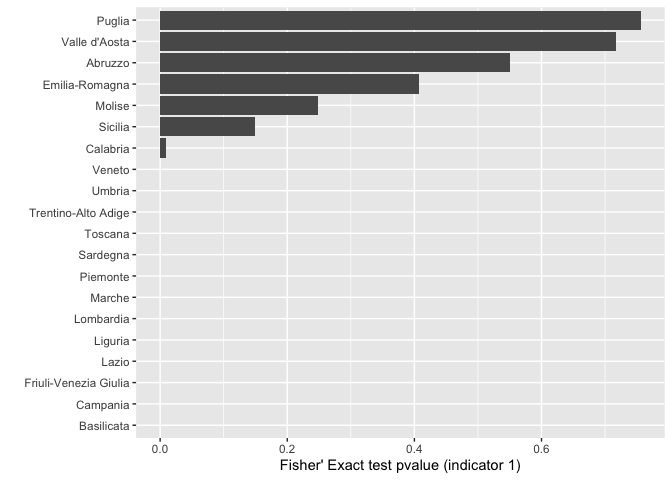
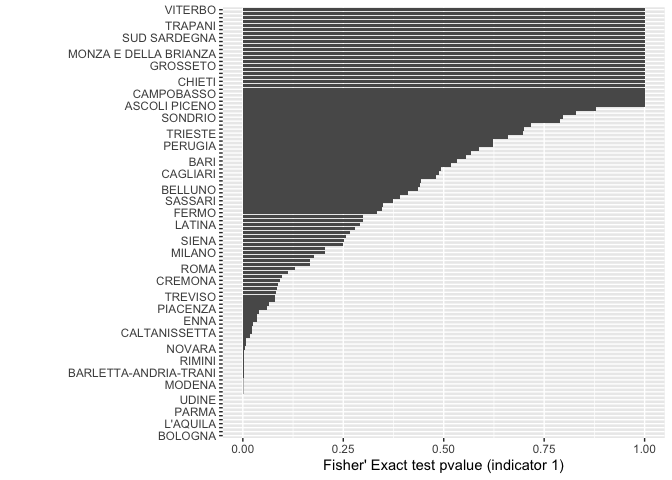
document pkg, update readme and docs

diff --git a/README.md b/README.md
@@ -9,6 +9,8 @@
 status](https://www.r-pkg.org/badges/version/core-soi)](https://CRAN.R-project.org/package=core-soi)
 [![Lifecycle:
 experimental](https://img.shields.io/badge/lifecycle-experimental-orange.svg)](https://lifecycle.r-lib.org/articles/stages.html#experimental)
+[![Codecov test
+coverage](https://codecov.io/gh/CORE-forge/core-soi/branch/main/graph/badge.svg)](https://app.codecov.io/gh/CORE-forge/core-soi?branch=main)
 <!-- badges: end -->
 
 The goal of `coresoi` is to offer a *sandbox* in which researchers and
@@ -51,44 +53,33 @@ library(dplyr)
 
 ## basic example code with ind_1() i.e. High Winning Rate
 ind_1_res <- ind_1(
-  data = test_data_bndcp_core, 
+  data = mock_data_core, 
   publication_date = data_pubblicazione, 
   cpv = cod_cpv, 
-  stat_unit = nome_regione2) %>% 
-  mutate(
-    across(where(is.numeric), ~round(., 3))
-  ) %>% 
-  na.omit(aggregation_name)
-
+  stat_unit = provincia)
+#> Warning: `quo_expr()` is deprecated as of rlang 0.2.0.
+#> Please use `quo_squash()` instead.
+#> This warning is displayed once per session.
 ind_1_res
-#> # A tibble: 20 × 12
+#> # A tibble: 109 × 12
 #> # Rowwise: 
-#>    indicator_id idicat…¹ indic…² aggre…³ emerg…⁴ emerg…⁵ aggre…⁶ aggre…⁷ count…⁸
-#>           <dbl> <chr>      <dbl> <fct>     <dbl> <chr>   <chr>   <chr>   <chr>  
-#>  1            1 High wi…   0.55  Abruzzo       3 other   ISTAT1  nuts_2  1      
-#>  2            1 High wi…   0     Basili…       3 other   ISTAT1  nuts_2  1      
-#>  3            1 High wi…   0.01  Calabr…       3 other   ISTAT1  nuts_2  1      
-#>  4            1 High wi…   0     Campan…       3 other   ISTAT1  nuts_2  1      
-#>  5            1 High wi…   0.408 Emilia…       3 other   ISTAT1  nuts_2  1      
-#>  6            1 High wi…   0     Friuli…       3 other   ISTAT1  nuts_2  1      
-#>  7            1 High wi…   0     Lazio         3 other   ISTAT1  nuts_2  1      
-#>  8            1 High wi…   0     Liguria       3 other   ISTAT1  nuts_2  1      
-#>  9            1 High wi…   0     Lombar…       3 other   ISTAT1  nuts_2  1      
-#> 10            1 High wi…   0     Marche        3 other   ISTAT1  nuts_2  1      
-#> 11            1 High wi…   0.249 Molise        3 other   ISTAT1  nuts_2  1      
-#> 12            1 High wi…   0     Piemon…       3 other   ISTAT1  nuts_2  1      
-#> 13            1 High wi…   0.756 Puglia        3 other   ISTAT1  nuts_2  1      
-#> 14            1 High wi…   0     Sardeg…       3 other   ISTAT1  nuts_2  1      
-#> 15            1 High wi…   0.149 Sicilia       3 other   ISTAT1  nuts_2  1      
-#> 16            1 High wi…   0     Toscana       3 other   ISTAT1  nuts_2  1      
-#> 17            1 High wi…   0     Trenti…       3 other   ISTAT1  nuts_2  1      
-#> 18            1 High wi…   0     Umbria        3 other   ISTAT1  nuts_2  1      
-#> 19            1 High wi…   0.717 Valle …       3 other   ISTAT1  nuts_2  1      
-#> 20            1 High wi…   0     Veneto        3 other   ISTAT1  nuts_2  1      
-#> # … with 3 more variables: country_name <chr>, indicator_last_update <dttm>,
-#> #   data_last_update <dttm>, and abbreviated variable names ¹idicator_name,
-#> #   ²indicator_value, ³aggregation_name, ⁴emergency_id, ⁵emergency_name,
-#> #   ⁶aggregation_id, ⁷aggregation_type, ⁸country_id
+#>    indicator_id indica…¹ indic…² aggre…³ aggre…⁴ aggre…⁵ emerg…⁶ emerg…⁷ count…⁸
+#>           <dbl> <chr>      <dbl> <fct>   <chr>   <chr>     <dbl> <chr>   <chr>  
+#>  1            1 High wi…   0.001 AGRIGE… ISTAT1  provin…       3 Other   1      
+#>  2            1 High wi…   0.205 ALESSA… ISTAT1  provin…       3 Other   1      
+#>  3            1 High wi…   0.004 ANCONA  ISTAT1  provin…       3 Other   1      
+#>  4            1 High wi…   0.004 AREZZO  ISTAT1  provin…       3 Other   1      
+#>  5            1 High wi…   1     ASCOLI… ISTAT1  provin…       3 Other   1      
+#>  6            1 High wi…   0.659 ASTI    ISTAT1  provin…       3 Other   1      
+#>  7            1 High wi…   1     AVELLI… ISTAT1  provin…       3 Other   1      
+#>  8            1 High wi…   0.533 BARI    ISTAT1  provin…       3 Other   1      
+#>  9            1 High wi…   0.003 BARLET… ISTAT1  provin…       3 Other   1      
+#> 10            1 High wi…   0.436 BELLUNO ISTAT1  provin…       3 Other   1      
+#> # … with 99 more rows, 3 more variables: country_name <chr>,
+#> #   indicator_last_update <dttm>, data_last_update <dttm>, and abbreviated
+#> #   variable names ¹indicator_name, ²indicator_value, ³aggregation_name,
+#> #   ⁴aggregation_id, ⁵aggregation_type, ⁶emergency_id, ⁷emergency_name,
+#> #   ⁸country_id
 ```
 
 Let’s now visualize results for top 10 provinces given High Winning Rate
@@ -98,8 +89,10 @@ indicator estimate.
 library(ggplot2)
 library(forcats)
 library(tidyr)
-ggplot(drop_na(ind_1_res), aes(y = fct_reorder(aggregation_name, indicator_value), x = indicator_value)) +
+drop_na(ind_1_res) %>% 
+  ggplot(aes(y = fct_reorder(aggregation_name, indicator_value), x = indicator_value)) +
   geom_col() +
+  scale_y_discrete(guide = guide_axis(check.overlap = TRUE)) +
   labs(
     y = "",
     x = "Fisher' Exact test pvalue (indicator 1)"
